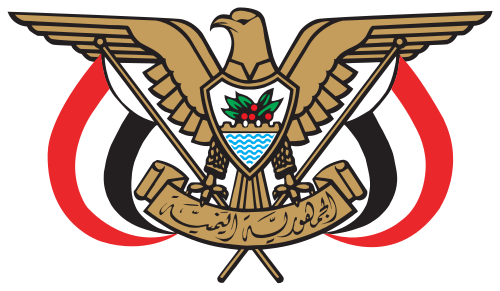
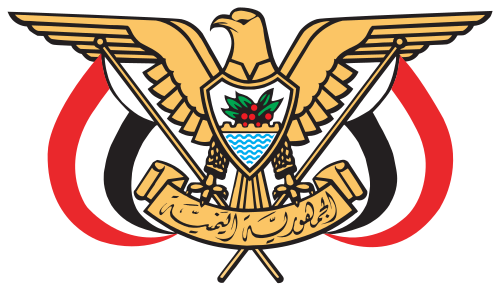
current to yemen

diff --git a/currentInfo.js b/currentInfo.js
@@ -2436,7 +2436,7 @@ const currentInfo = [
         leader: {"title":"President","pos":"president","name":"Shavkat Mirziyoyev","url":"https://en.wikipedia.org/wiki/Shavkat_Mirziyoyev","imgUrl":"https://upload.wikimedia.org/wikipedia/commons/thumb/c/cd/Shavkat_Mirziyoyev_official_portrait_%28cropped_2%29.jpg/500px-Shavkat_Mirziyoyev_official_portrait_%28cropped_2%29.jpg"}, 
         flag: {"url":"https://upload.wikimedia.org/wikipedia/commons/thumb/8/84/Flag_of_Uzbekistan.svg/500px-Flag_of_Uzbekistan.svg.png"}, 
         symbol: {"url":"https://upload.wikimedia.org/wikipedia/commons/thumb/7/77/Emblem_of_Uzbekistan.svg/500px-Emblem_of_Uzbekistan.svg.png"}, 
-        map: {"url":"https://upload.wikimedia.org/wikipedia/commons/thumb/b/b3/Uzbekistan_on_the_globe_%28Uzbekistan_centered%29.svg/500px-Uzbekistan_on_the_globe_%28Uzbekistan_centered%29.svg.png"}, 
+        map: {"url":"https://upload.wikimedia.org/wikipedia/commons/thumb/6/6d/Uzbekistan_%28centered_orthographic_projection%29.svg/500px-Uzbekistan_%28centered_orthographic_projection%29.svg.png"}, 
         capital: [{"name":"Tashkent","type":"capital"}], 
         language: {"list":["Uzbek"]}, 
         demonym: {"name":"Uzbekistani"}, 
@@ -2451,7 +2451,7 @@ const currentInfo = [
         map: {"url":"https://upload.wikimedia.org/wikipedia/commons/thumb/d/d9/Vanuatu_on_the_globe_%28Polynesia_centered%29.svg/500px-Vanuatu_on_the_globe_%28Polynesia_centered%29.svg.png"}, 
         capital: [{"name":"Port Vila","type":"capital"}], 
         language: {"list":["Bislama","English","French"]}, 
-        demonym: {"name":"Vanuatuan"}, 
+        demonym: {"name":"Ni-Vanatu"}, 
         currency: [{"demonym":"Vanuatu","unit":"vatu"}], 
         tld: {"name":".vu"}, 
         largestCity: [{"name":"Port Vila","type":"largest city"}], 
@@ -2463,7 +2463,7 @@ const currentInfo = [
         symbol: {"url":"https://upload.wikimedia.org/wikipedia/commons/thumb/f/f3/Coat_of_arms_of_Vatican_City_State_-_2023_version.svg/500px-Coat_of_arms_of_Vatican_City_State_-_2023_version.svg.png"}, 
         map: {"url":"https://upload.wikimedia.org/wikipedia/commons/thumb/8/89/Location_of_the_Vatican_City_in_Europe.svg/500px-Location_of_the_Vatican_City_in_Europe.svg.png"}, 
         capital: [{"name":"Vatican City","type":"capital"}], 
-        language: {"list":["Latin","Italian"]}, 
+        language: {"list":["Italian","Latin"]}, 
         demonym: {"name":"Vaticanian"}, 
         currency: [{"full":"euro"}], 
         tld: {"name":".va"}, 
@@ -2497,9 +2497,9 @@ const currentInfo = [
     }, 
     {
         country: {"name":"Yemen","url":"https://en.wikipedia.org/wiki/Yemen"}, 
-        leader: {"title":"Chairman of the Presidential Leadership Council","pos":"chairman of the Presidential Leadership Council","name":"Rashad al-Alimi","url":"https://en.wikipedia.org/wiki/Rashad_al-Alimi","imgUrl":"https://upload.wikimedia.org/wikipedia/commons/thumb/0/00/Rashad_al-Alimi_-_2023_%28cropped%29.jpg/500px-Rashad_al-Alimi_-_2023_%28cropped%29.jpg"}, 
+        leader: {"title":"Chairman of the Presidential Leadership Council","pos":"chairman of the Presidential Leadership Council","name":"Rashad al-Alimi","url":"https://upload.wikimedia.org/wikipedia/commons/thumb/2/29/Rashad_al-Alimi_%282023%29.jpg/500px-Rashad_al-Alimi_%282023%29.jpg"}, 
         flag: {"url":"https://upload.wikimedia.org/wikipedia/commons/thumb/8/89/Flag_of_Yemen.svg/500px-Flag_of_Yemen.svg.png"}, 
-        symbol: {"url":"https://upload.wikimedia.org/wikipedia/commons/thumb/c/c3/Emblem_of_Yemen_%282%29.svg/500px-Emblem_of_Yemen_%282%29.svg.png"}, 
+        symbol: {"url":"https://upload.wikimedia.org/wikipedia/commons/thumb/8/82/Emblem_of_Yemen.svg/500px-Emblem_of_Yemen.svg.png"}, 
         map: {"url":"https://upload.wikimedia.org/wikipedia/commons/thumb/f/f1/Yemen_%28orthographic_projection%29.svg/500px-Yemen_%28orthographic_projection%29.svg.png"}, 
         capital: [{"name":"Sanaa","type":"capital"}], 
         language: {"list":["Arabic"]}, 

diff --git a/newInfo.js b/newInfo.js
@@ -2452,7 +2452,7 @@ const newInfo = [
         map: {"url":"https://upload.wikimedia.org/wikipedia/commons/thumb/d/d9/Vanuatu_on_the_globe_%28Polynesia_centered%29.svg/500px-Vanuatu_on_the_globe_%28Polynesia_centered%29.svg.png"}, 
         capital: [{"name":"Port Vila","type":"capital"}], 
         language: {"list":["Bislama","English","French"]}, 
-        demonym: {}, 
+        demonym: {"name":"Ni-Vanatu"}, 
         currency: [{"demonym":"Vanuatu","unit":"vatu"}], 
         tld: {"name":".vu"}, 
         largestCity: [{"name":"Port Vila","type":"largest city"}], 
@@ -2465,7 +2465,7 @@ const newInfo = [
         map: {"url":"https://upload.wikimedia.org/wikipedia/commons/thumb/8/89/Location_of_the_Vatican_City_in_Europe.svg/500px-Location_of_the_Vatican_City_in_Europe.svg.png"}, 
         capital: [{"name":"Vatican City","type":"capital"}], 
         language: {"list":["Italian","Latin"]}, 
-        demonym: {}, 
+        demonym: {"name":"Vaticanian"}, 
         currency: [{"full":"euro"}], 
         tld: {"name":".va"}, 
         largestCity: [{"name":"Vatican City","type":"largest city"}], 
@@ -2486,9 +2486,9 @@ const newInfo = [
     {
         country: {"name":"Vietnam","url":"https://en.wikipedia.org/wiki/Vietnam"}, 
         leader: {"title":"General Secretary of the Communist Party","pos":"general secretary of the Communist Party","name":"Nguyễn Phú Trọng","url":"https://en.wikipedia.org/wiki/Nguy%E1%BB%85n_Ph%C3%BA_Tr%E1%BB%8Dng","imgUrl":"https://upload.wikimedia.org/wikipedia/commons/thumb/a/a8/Nguyen_Phu_Trong_HN2023.jpg/500px-Nguyen_Phu_Trong_HN2023.jpg"}, 
-        flag: {"url":"https://upload.wikimedia.org/wikipedia/commons/thumb/a/a3/Emblem_of_Vietnam.svg/500px-Emblem_of_Vietnam.svg.png"}, 
-        symbol: {"url":"https://upload.wikimedia.org/wikipedia/commons/thumb/2/28/Vietnam_%28orthographic_projection%29.svg/500px-Vietnam_%28orthographic_projection%29.svg.png"}, 
-        map: {"url":"https://upload.wikimedia.org/wikipedia/commons/thumb/d/d6/Location_Vietnam_ASEAN.svg/500px-Location_Vietnam_ASEAN.svg.png"}, 
+        flag: {"url":"https://upload.wikimedia.org/wikipedia/commons/thumb/2/21/Flag_of_Vietnam.svg/500px-Flag_of_Vietnam.svg.png"}, 
+        symbol: {"url":"https://upload.wikimedia.org/wikipedia/commons/thumb/a/a3/Emblem_of_Vietnam.svg/500px-Emblem_of_Vietnam.svg.png"}, 
+        map: {"url":"https://upload.wikimedia.org/wikipedia/commons/thumb/2/28/Vietnam_%28orthographic_projection%29.svg/500px-Vietnam_%28orthographic_projection%29.svg.png"}, 
         capital: [{"name":"Hanoi","type":"capital"}], 
         largestCity: [{"name":"Ho Chi Minh City","type":"largest city"}], 
         language: {"list":["Vietnamese"]}, 
@@ -2498,7 +2498,7 @@ const newInfo = [
     }, 
     {
         country: {"name":"Yemen","url":"https://en.wikipedia.org/wiki/Yemen"}, 
-        leader: {"title":"Chairman of the Presidential Leadership Council","pos":"chairman of the Presidential Leadership Council","name":"Rashad al-Alimi","url":"https://en.wikipedia.org/wiki/Rashad_al-Alimi","imgUrl":"https://upload.wikimedia.org/wikipedia/commons/thumb/2/29/Rashad_al-Alimi_%282023%29.jpg/500px-Rashad_al-Alimi_%282023%29.jpg"}, 
+        leader: {"title":"Chairman of the Presidential Leadership Council","pos":"chairman of the Presidential Leadership Council","name":"Rashad al-Alimi","url":"https://upload.wikimedia.org/wikipedia/commons/thumb/2/29/Rashad_al-Alimi_%282023%29.jpg/500px-Rashad_al-Alimi_%282023%29.jpg"}, 
         flag: {"url":"https://upload.wikimedia.org/wikipedia/commons/thumb/8/89/Flag_of_Yemen.svg/500px-Flag_of_Yemen.svg.png"}, 
         symbol: {"url":"https://upload.wikimedia.org/wikipedia/commons/thumb/8/82/Emblem_of_Yemen.svg/500px-Emblem_of_Yemen.svg.png"}, 
         map: {"url":"https://upload.wikimedia.org/wikipedia/commons/thumb/f/f1/Yemen_%28orthographic_projection%29.svg/500px-Yemen_%28orthographic_projection%29.svg.png"}, 

diff --git a/test.js b/test.js
@@ -1,33 +1,34 @@
 async function getData(){
 
     try {
-        const response = await require('axios').get("https://en.wikipedia.org/wiki/Tunisia");
+        const response = await require('axios').get("https://en.wikipedia.org/wiki/Vietnam");
         const data = require('cheerio').load(response.data);
         const size= "500px";
         const countryNum = 30;
 
-        flag_symbol_map(3, "svg", 4, "svg", 5, "svg");
+        flag_symbol_map(4, "svg", 5, "svg", 6, "svg");
         // leaderImg(3, "jpg")
 
 
         // for(let j=0; j < data(`th.infobox-label`).length; j++){
         //     try{
-        //         if( 
-        //                 data(`th.infobox-label`)[j].children[0].data == "Official language"
-        //             ||  data(`th.infobox-label`)[j].children[0].data == "Official languages"
-        //             ||  data(`th.infobox-label`)[j].children[0].data == "Official language"
-        //             ||  data(`th.infobox-label`)[j].children[0].data == "Official languages"
-        //             ||  data(`th.infobox-label`)[j].children[0].data == "Working language"
-        //         ){
-        //             for(let k=0; k < data(`th.infobox-label`)[j].next.children[1].children[0].children.length; k++){
-        //                 console.log(data(`th.infobox-label`)[j].next.children[1].children[0].children[k].children[0].children[0].data);
-        //             }
+        //         // if( 
+        //         //         data(`th.infobox-label`)[j].children[0].data == "Official language"
+        //         //     ||  data(`th.infobox-label`)[j].children[0].data == "Official languages"
+        //         //     ||  data(`th.infobox-label`)[j].children[0].data == "Official language"
+        //         //     ||  data(`th.infobox-label`)[j].children[0].data == "Official languages"
+        //         //     ||  data(`th.infobox-label`)[j].children[0].data == "Working language"
+        //         // ){
+        //         //     for(let k=0; k < data(`th.infobox-label`)[j].next.children[1].children[0].children.length; k++){
+        //         //         console.log(data(`th.infobox-label`)[j].next.children[1].children[0].children[k].children[0].children[0].data);
+        //         //     }
+        //         //     // console.log(data(`th.infobox-label`)[j].next.children[1].children[1]);
+        //         //     // console.log("ok")
+        //         // }
+                
 
-
-        //             // console.log(data(`th.infobox-label`)[j].next.children[1].children[1]);
-
-
-        //             // console.log("ok")
+        //         if(data(`th.infobox-label`)[j].children[0].children[0].data == "Demonym(s)"){
+        //             console.log(data(`th.infobox-label`)[j].next.children[0].children[0].data);
         //         }
         //     } catch(error){
         //     }

diff --git a/scraper.js b/scraper.js
@@ -1080,7 +1080,7 @@ async function getData(){
                         flag_symbol_map(4, "svg", 5, "svg", 6, "svg");
                         break;
                     case 191:    // Vietnam
-                        flag_symbol_map(5, "svg", 6, "svg", 7, "svg");
+                        flag_symbol_map(4, "svg", 5, "svg", 6, "svg");
                         break;
                     case 192:    // Yemen
                         flag_symbol_map(4, "svg", 5, "svg", 6, "svg");
@@ -2267,9 +2267,6 @@ async function getData(){
                                 break;
                             case 184:   //  UK
                                 demonym_nc10000();
-                                break;
-                            case 188:   //  Vanuatu
-                                demonym_nc0_s1();
                                 break;
                             case 189:   //  Vatican
                                 demonym_nc2_s2();
